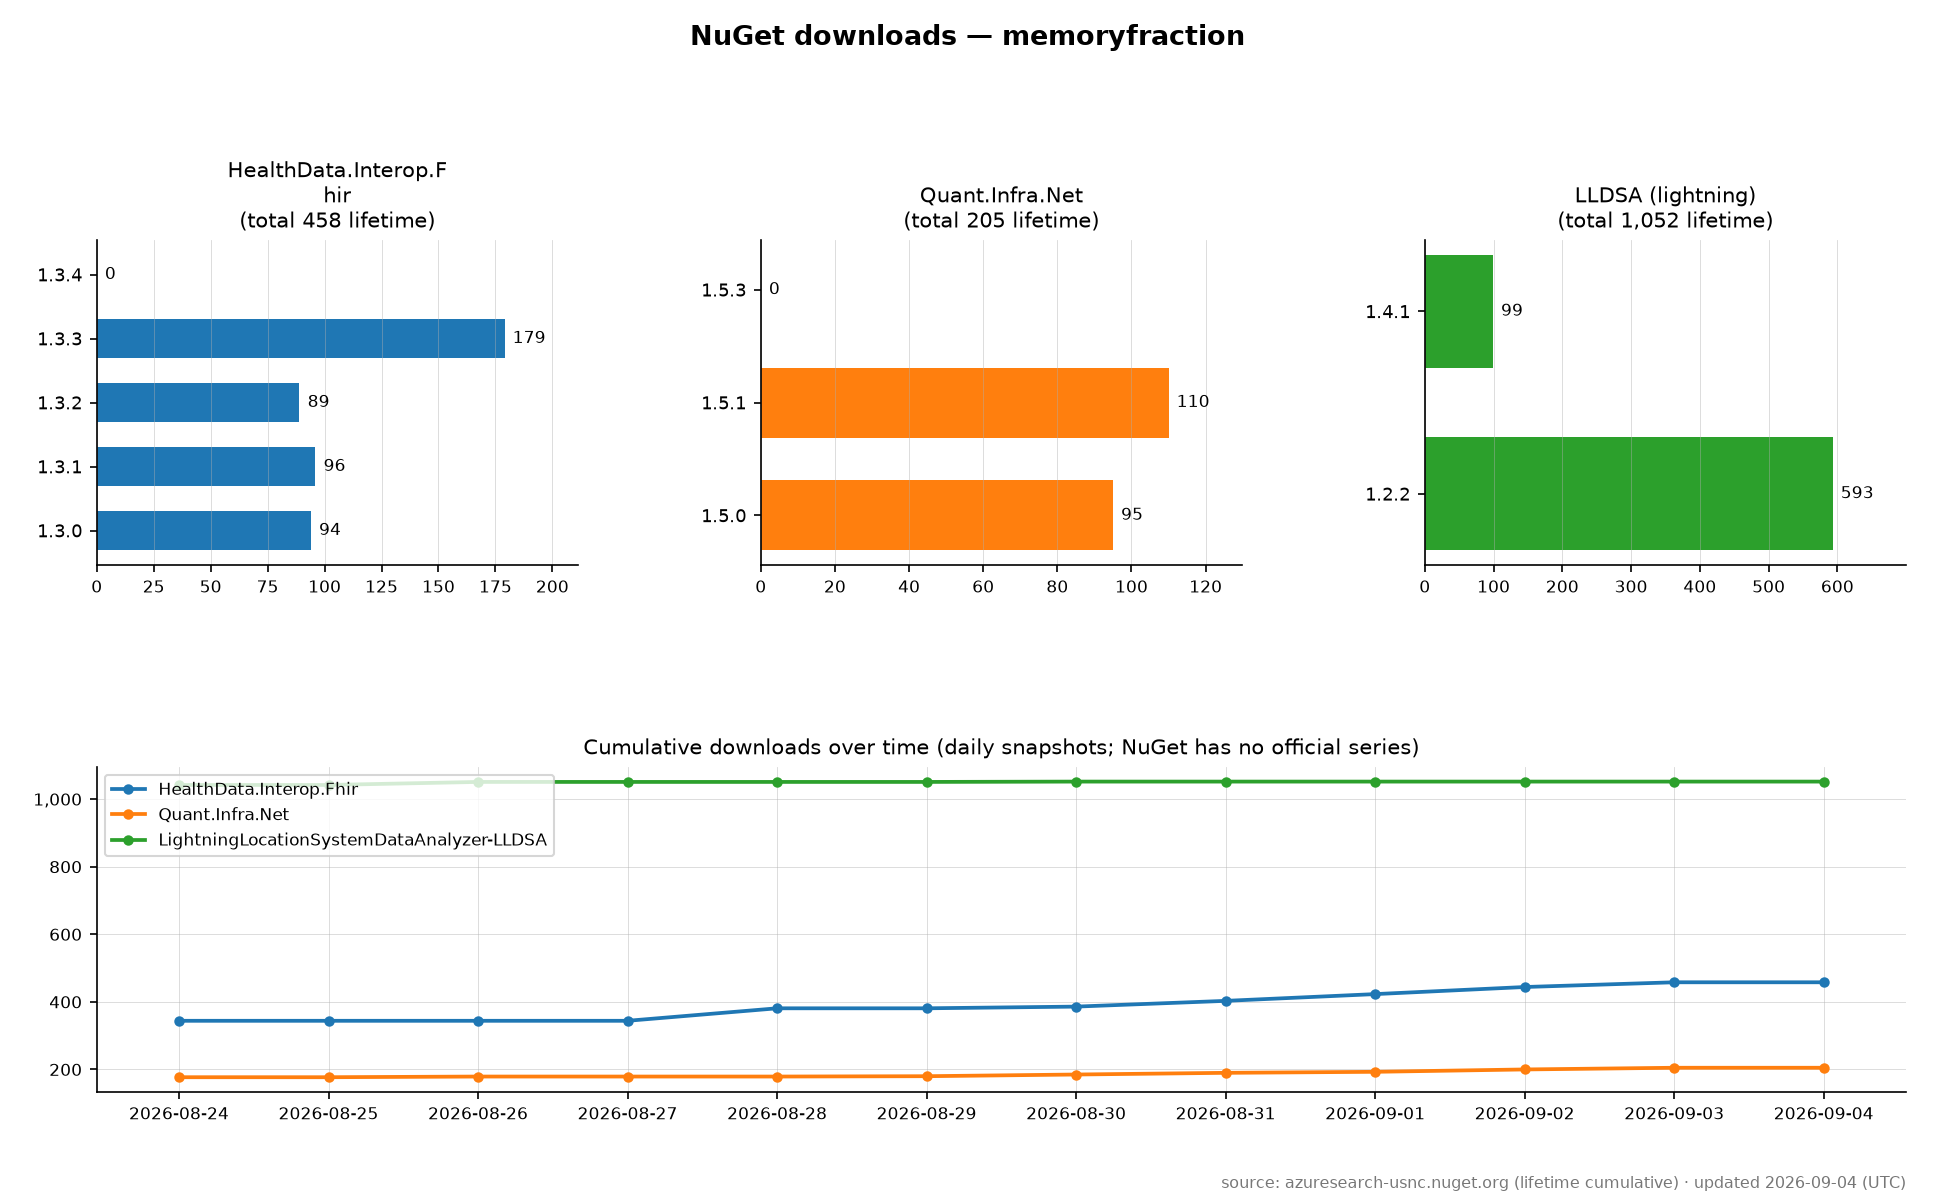
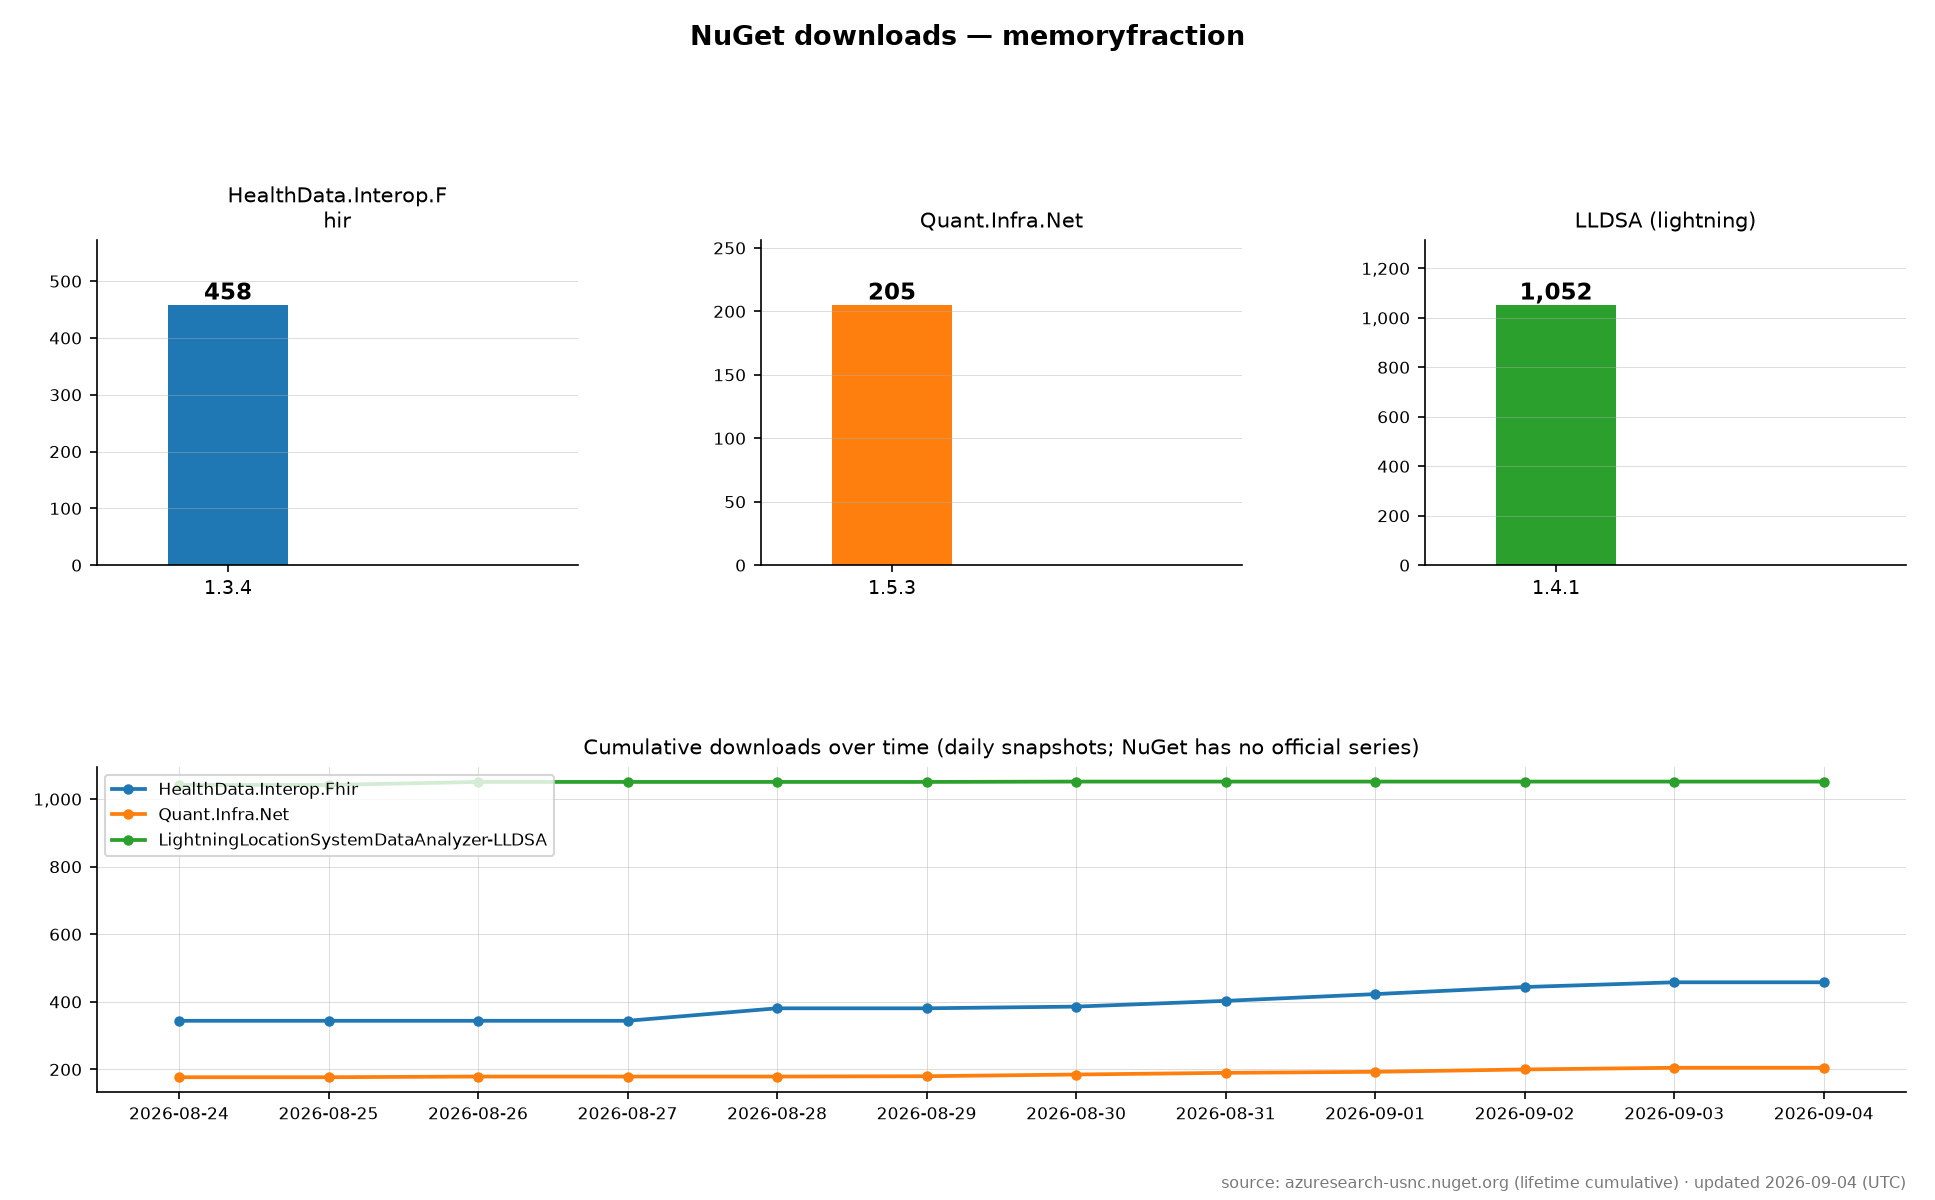
fix(chart): replace per-version bars with per-package lifetime totals (#5)
The NuGet search API does not return a reliable per-version cumulative
total for the LATEST version of a package (it comes back 0/empty), so
the old per-version bar breakdown rendered fake zeros (e.g. Fhir 1.3.4,
QIN 1.5.3). Chart the reliable per-package lifetime total + latest
version instead, and keep the daily-snapshot trend line. NuGet has no
per-version time series.

diff --git a/scripts/nuget_stats.py b/scripts/nuget_stats.py
@@ -185,37 +185,32 @@ def render_chart(history: list, out_path: Path) -> None:
     gs = gridspec.GridSpec(nrows, ncols, figure=fig, hspace=0.62, wspace=0.38,
                            left=0.05, right=0.985, top=0.80, bottom=0.09)
 
-    # ---- row 0: per-version bars ------------------------------------------
+    # ---- row 0: package-level lifetime totals -----------------------------
+    # NOTE: the NuGet search API does NOT return a reliable per-version
+    # cumulative total for the LATEST version of a package (it comes back
+    # 0 / empty), so a per-version bar breakdown would show fake zeros.
+    # We therefore chart the reliable per-package lifetime total only, plus
+    # the daily-snapshot trend below. (NuGet has no per-version time series.)
     for col, pkg in enumerate(pkgs):
         ax = fig.add_subplot(gs[0, col])
         info = latest["packages"][pkg]
-        versions = info.get("versions") or {}
-        if not versions:
-            ax.text(0.5, 0.5, "no per-version data", ha="center", va="center",
-                    transform=ax.transAxes, color="#888")
-            ax.set_title(pkg, fontsize=10)
-            ax.axis("off")
-            continue
-        items = sorted(versions.items(), key=lambda kv: _semver_key(kv[0]))
-        items = items[-5:]  # show only the 5 latest versions
-        labels = [k for k, _ in items]
-        values = [v for _, v in items]
+        total = int(info.get("total", 0) or 0)
+        latest_version = info.get("latestVersion") or "n/a"
         color = _color(pkg, pkgs)
-        bars = ax.barh(labels, values, color=color, height=0.62)
-        for bar, val in zip(bars, values):
-            ax.text(bar.get_width() + max(values) * 0.02,
-                    bar.get_y() + bar.get_height() / 2,
-                    format(val, ","), va="center", fontsize=8)
-        ax.set_xlim(0, max(values) * 1.18)
-        ax.xaxis.set_major_formatter(FuncFormatter(_fmt_int))
-        ax.tick_params(axis="y", labelsize=8.5)
-        ax.tick_params(axis="x", labelsize=8)
+        bar = ax.bar([0], [total], color=color, width=0.55)
+        ax.text(bar[0].get_x() + bar[0].get_width() / 2.0, total,
+                format(total, ","), ha="center", va="bottom", fontsize=11, weight="bold")
+        ax.set_xlim(-0.6, 1.6)
+        ax.set_ylim(0, max(total, 1) * 1.25)
+        ax.set_xticks([0])
+        ax.set_xticklabels([latest_version], fontsize=9)
+        ax.yaxis.set_major_formatter(FuncFormatter(_fmt_int))
+        ax.tick_params(axis="y", labelsize=8)
         title = (SHORT_NAMES.get(pkg) or "\n".join(textwrap.wrap(pkg, 20))) or pkg
-        ax.set_title(title + "\n(total " + format(info.get("total", 0), ",") + " lifetime)", fontsize=10)
-        ax.grid(axis="x", linewidth=0.4, alpha=0.5)
+        ax.set_title(title, fontsize=10)
+        ax.grid(axis="y", linewidth=0.4, alpha=0.5)
         for s in ("top", "right"):
             ax.spines[s].set_visible(False)
-
     # ---- row 1: cumulative trend (needs >= 2 snapshots) -------------------
     if has_trend:
         ax = fig.add_subplot(gs[1, :])
